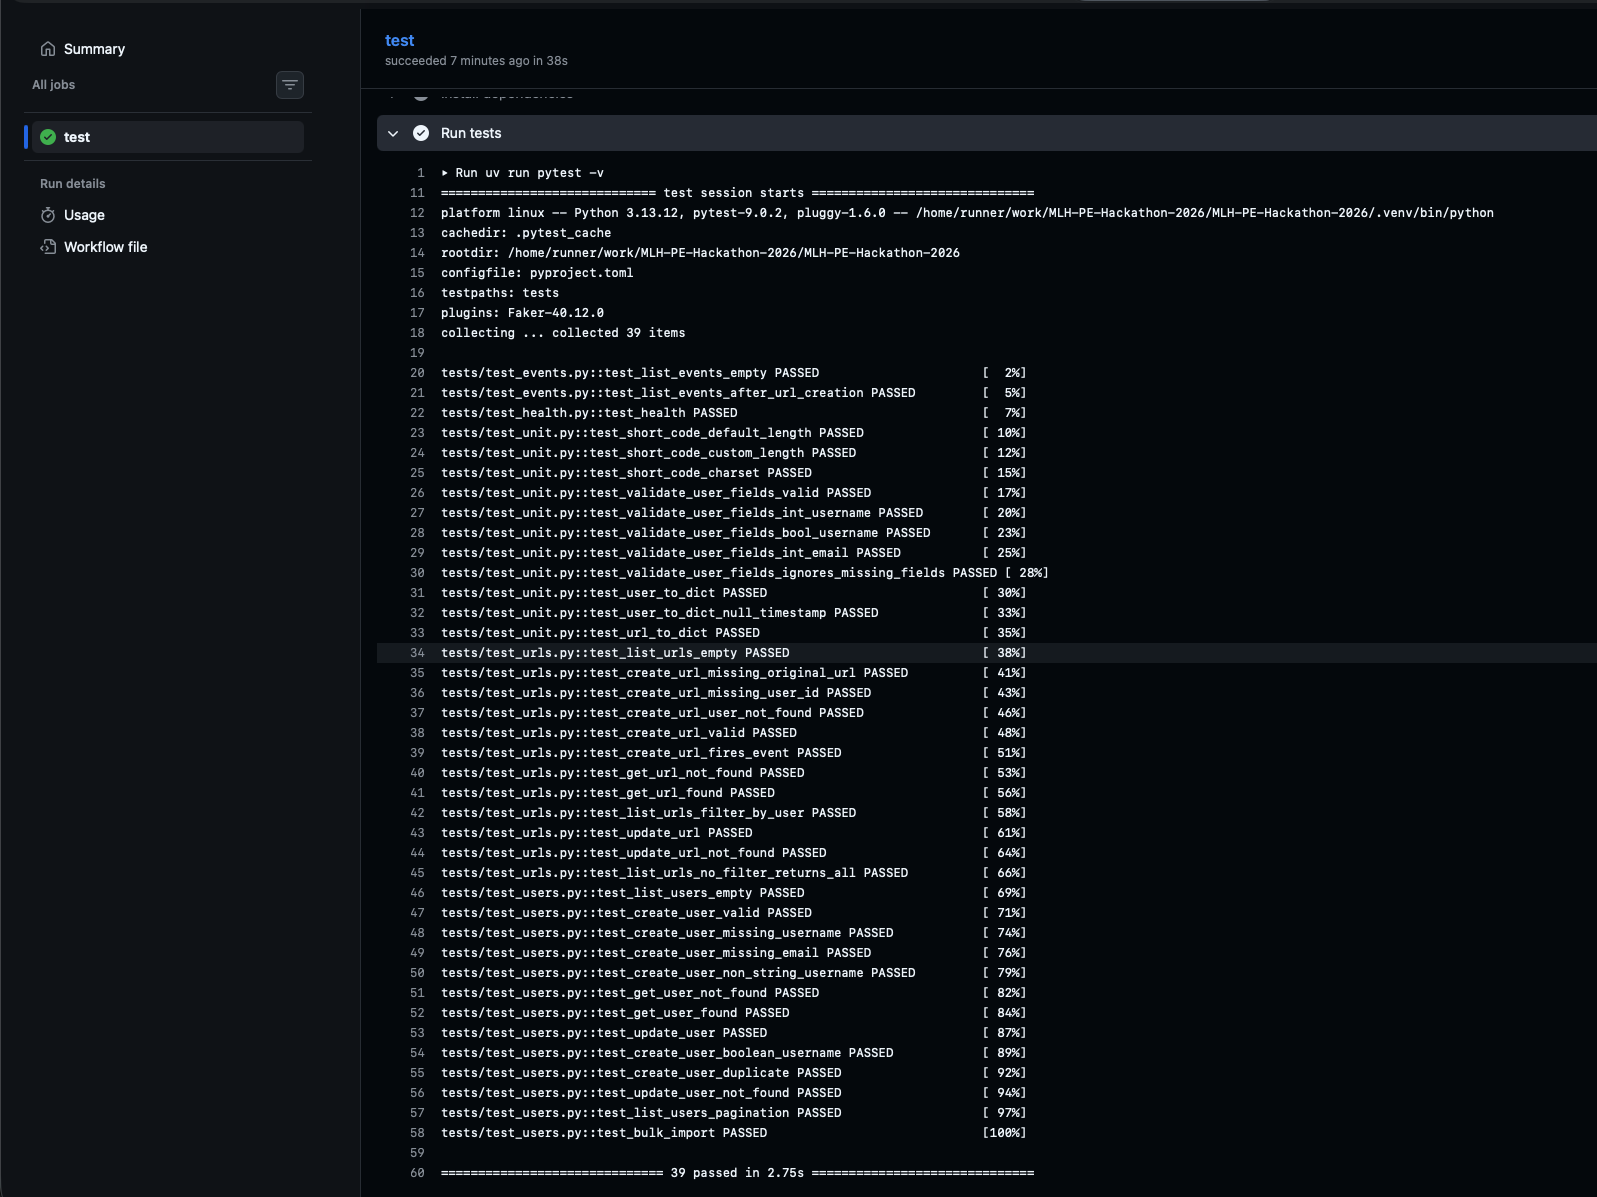
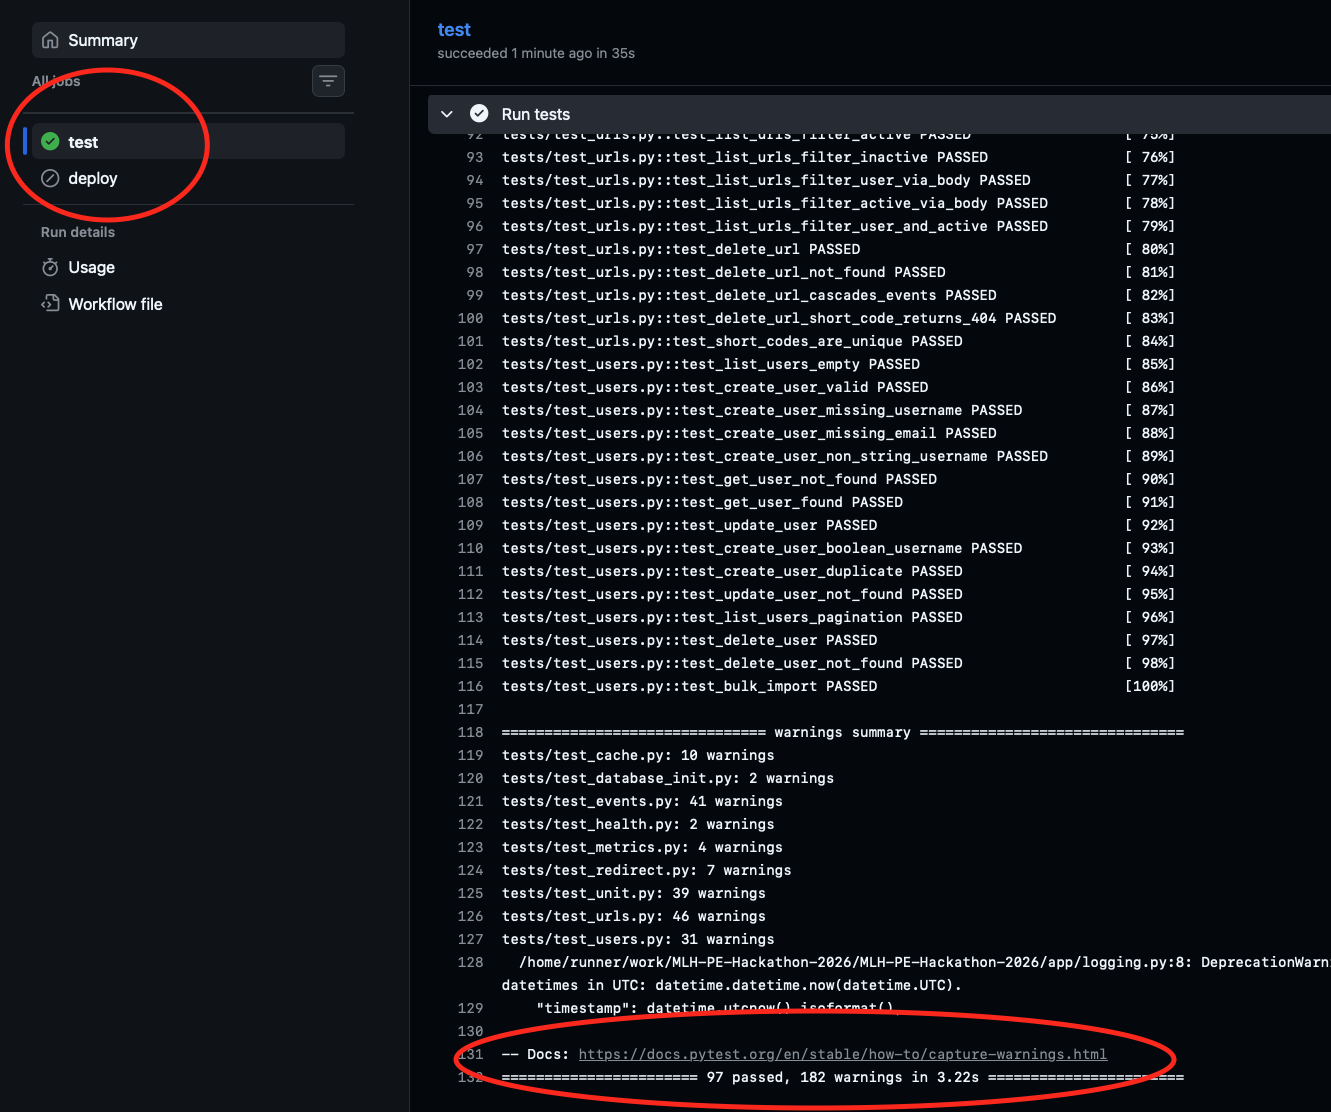
Update Reliability progress

Changed region(s): [[0.2156, 0.0, 1.0, 1.0], [0.0, 0.0306, 0.154, 0.2752], [0.1232, 0.1529, 0.154, 0.1835]]

diff --git a/PROGRESS.md b/PROGRESS.md
@@ -5,7 +5,7 @@
 
 | Objective | Status | Notes |
 |-----------|--------|-------|
-| Write unit tests with pytest | ✅ Done | 84 unit + system tests across health, users, urls, events |
+| Write unit tests with pytest | ✅ Done | 97 unit + system tests across health, users, urls, events |
 | Set up GitHub Actions CI | ✅ Done | `.github/workflows/ci.yml` — runs on every push/PR |
 | `GET /health` endpoint returns 200 | ✅ Done | `http://localhost:8080/health` |
 
@@ -22,7 +22,7 @@ Screenshot of Github Action CI with passing tests:
 |-----------|--------|-------|
 | 50% Coverage: Use pytest-cov | ✅ Done | `pytest-cov` added to dev dependencies |
 | Integration Testing: Write tests that hit the API | ✅ Done | System tests use Flask `test_client()` against a real DB |
-| The Gatekeeper: CI fails if tests fail | ✅ Done | |
+| The Gatekeeper: CI fails if tests fail | ✅ Done | See below |
 | Error Handling: Document how app handles 404s and 500s | ✅ Done | [See README](README.md#error-handling) |
 
 #### Verification  
